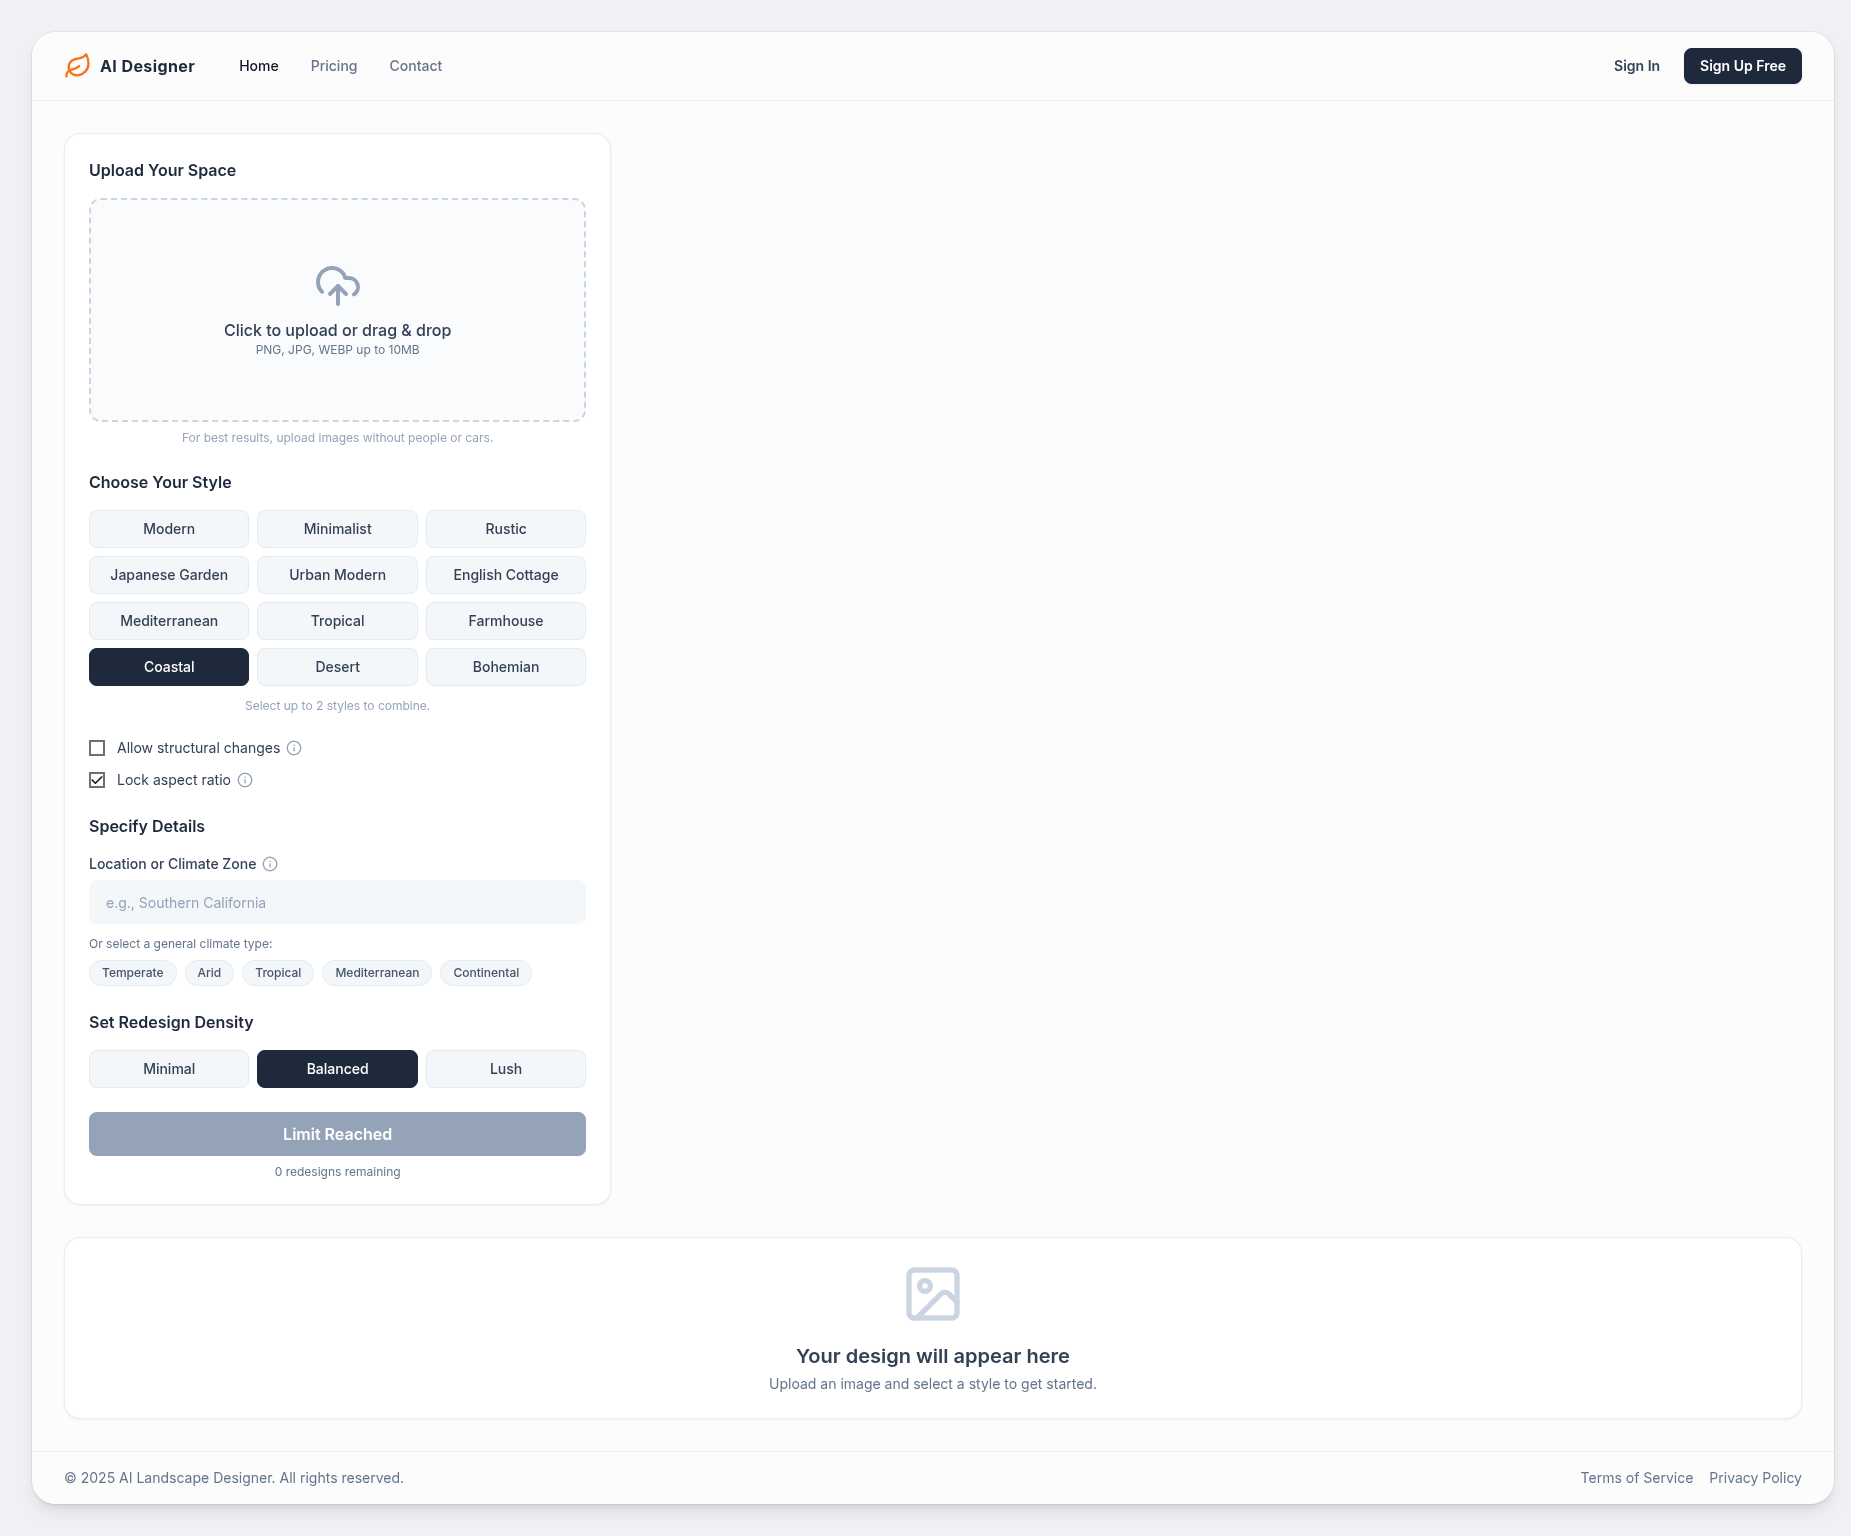
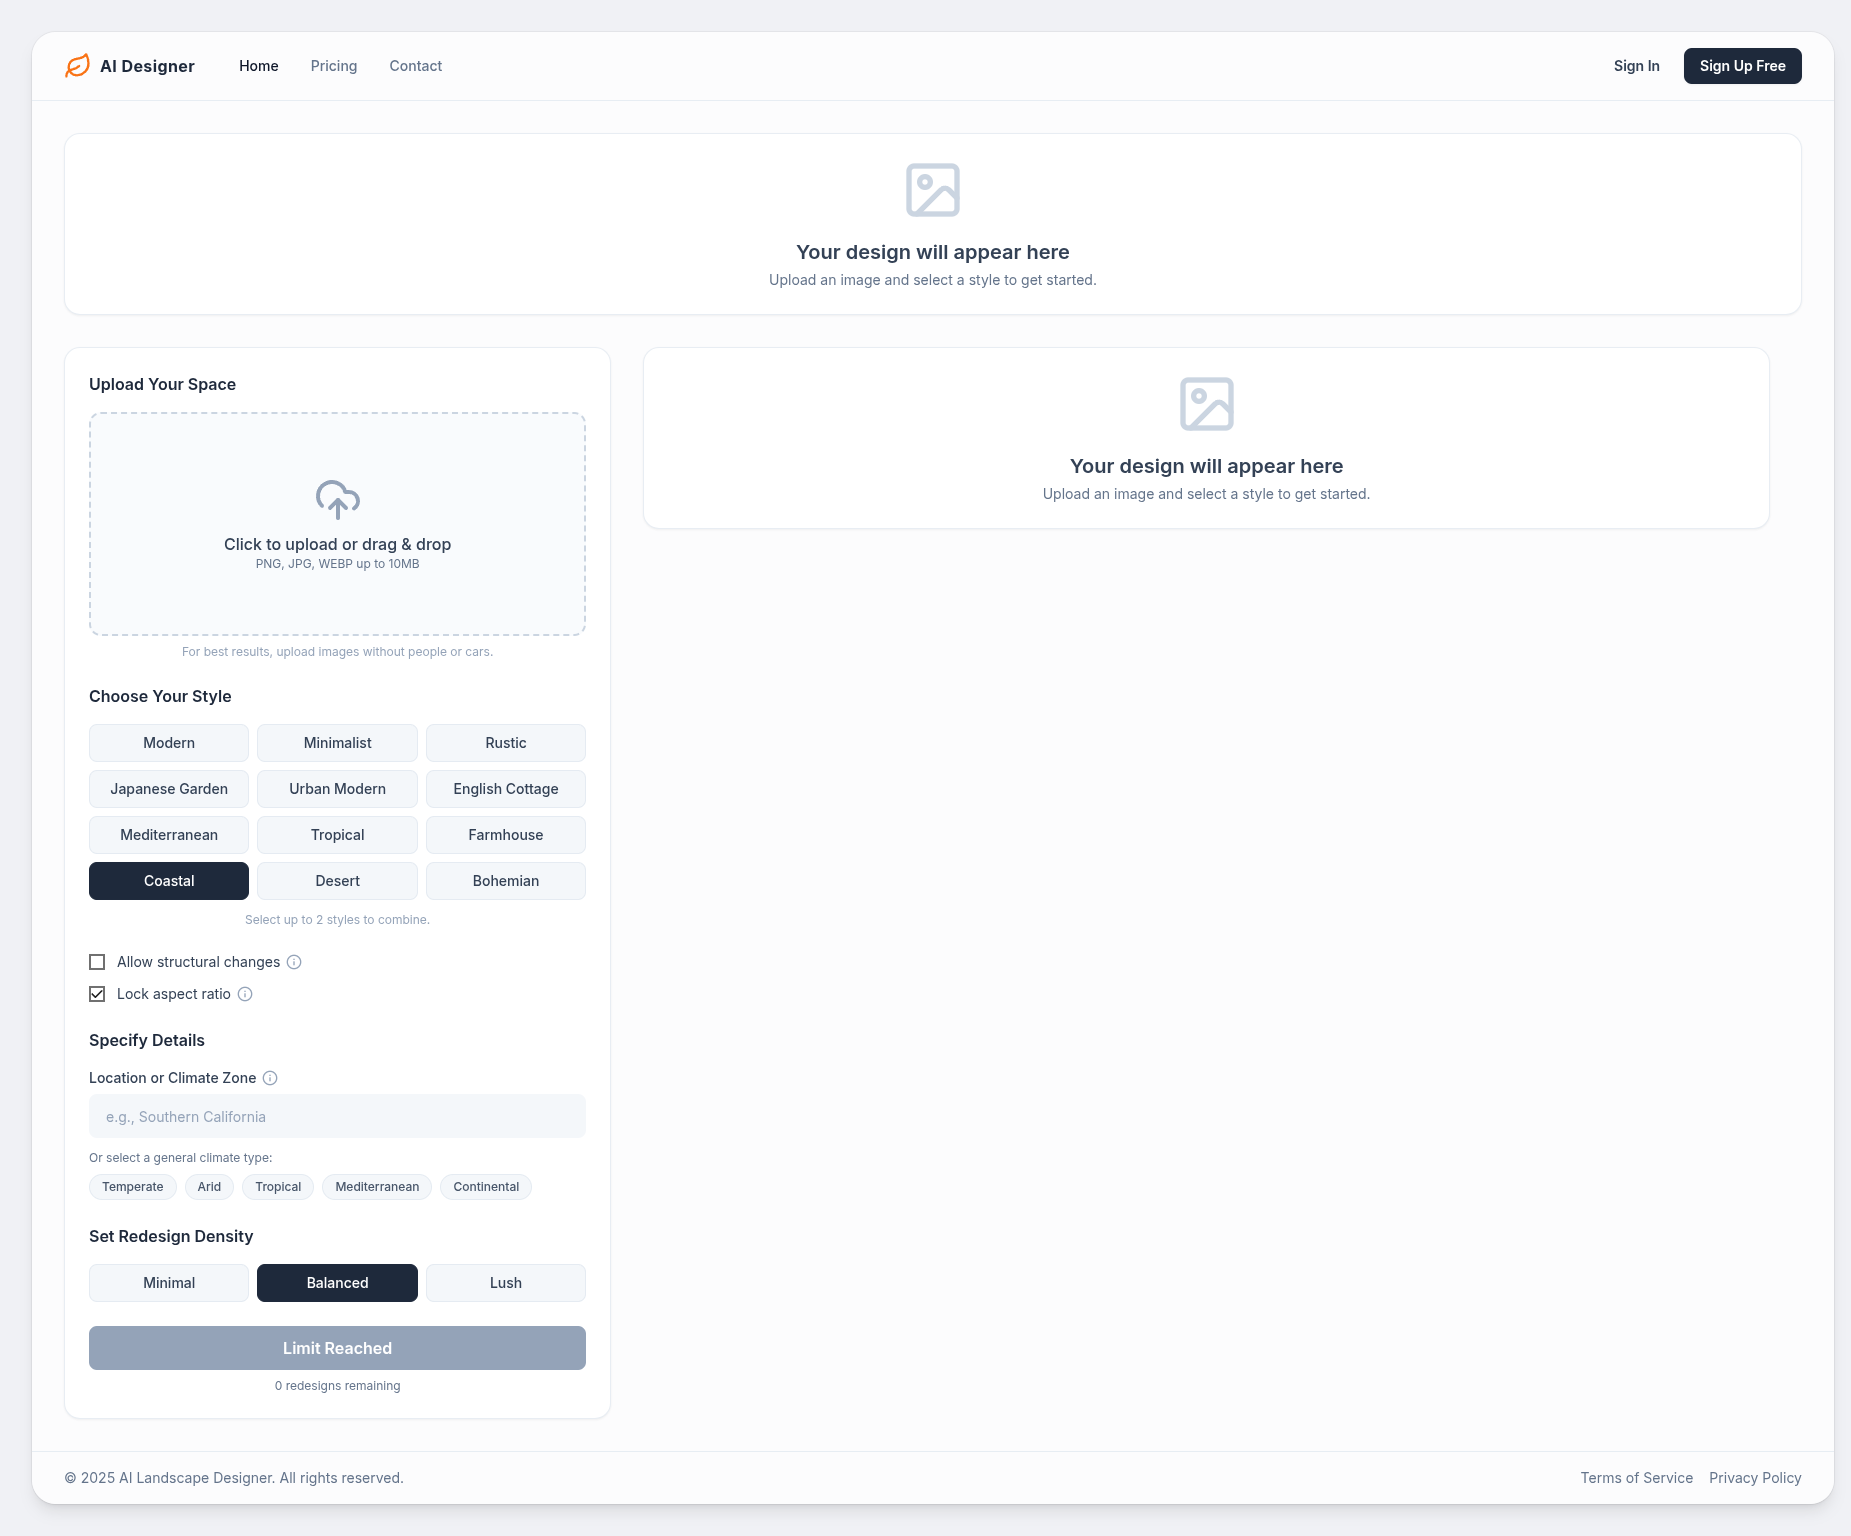
Fix duplicate ResultDisplay - restore proper grid layout order

diff --git a/pages/DesignerPage.tsx b/pages/DesignerPage.tsx
@@ -183,18 +183,7 @@ export const DesignerPage: React.FC = () => {
 
   return (
     <div className="grid grid-cols-1 xl:grid-cols-3 xl:items-start gap-4 sm:gap-6 lg:gap-8">
-      <div className="xl:col-span-2 xl:order-2 flex flex-col">
-        <ResultDisplay
-          originalImageFile={originalImage}
-          redesignedImage={redesignedImage}
-          designCatalog={designCatalog}
-          isLoading={isLoading}
-          historyItems={history}
-          onHistoryItemClick={viewFromHistory}
-        />
-      </div>
-      
-      <div className="xl:col-span-1 xl:order-1 bg-white rounded-lg sm:rounded-xl lg:rounded-2xl shadow-sm border border-slate-200/80 p-4 sm:p-5 lg:p-6 space-y-4 sm:space-y-5 lg:space-y-6 h-fit">
+      <div className="xl:col-span-1 bg-white rounded-lg sm:rounded-xl lg:rounded-2xl shadow-sm border border-slate-200/80 p-4 sm:p-5 lg:p-6 space-y-4 sm:space-y-5 lg:space-y-6 h-fit">
         <Section title="Upload Your Space">
             <ImageUploader onImageUpload={handleImageUpload} initialImage={originalImage} />
         </Section>
@@ -241,6 +230,17 @@ export const DesignerPage: React.FC = () => {
             </p>
         </div>
          {error && <p className="text-red-600 text-sm mt-2 text-center">{error}</p>}
+      </div>
+      
+      <div className="xl:col-span-2 flex flex-col">
+        <ResultDisplay
+          originalImageFile={originalImage}
+          redesignedImage={redesignedImage}
+          designCatalog={designCatalog}
+          isLoading={isLoading}
+          historyItems={history}
+          onHistoryItemClick={viewFromHistory}
+        />
       </div>
     </div>
   );
